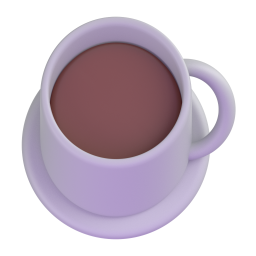
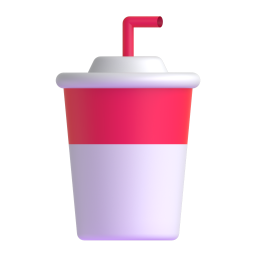
Use food emoji in tracker

diff --git a/food.html b/food.html
@@ -38,9 +38,9 @@ body{margin:0;min-height:100vh;display:grid;place-items:center;background:#20232
     <div class="date">MONDAY 05 OCT</div>
     <div class="vrule"></div><div class="hrule"></div>
     <div class="food">
-      <button data-count="0" data-kind="snack" title="Log snack" aria-label="Log snack"><img src="assets/snack.png" alt=""></button>
-      <button data-count="0" data-kind="meal" title="Log meal" aria-label="Log meal"><img src="assets/meal.png" alt=""></button>
-      <button data-count="0" data-kind="beverage" title="Log beverage" aria-label="Log beverage"><img src="assets/beverage.png" alt=""></button>
+      <button data-count="0" data-kind="snack" title="Log snack" aria-label="Log snack"><img src="assets/snack.png?v=2" alt=""></button>
+      <button data-count="0" data-kind="meal" title="Log meal" aria-label="Log meal"><img src="assets/meal.png?v=2" alt=""></button>
+      <button data-count="0" data-kind="beverage" title="Log soda" aria-label="Log soda"><img src="assets/beverage.png?v=2" alt=""></button>
     </div>
     <div class="split"></div>
     <div class="field left"><div class="label">STEPS</div><div class="value">8.4K</div></div>
